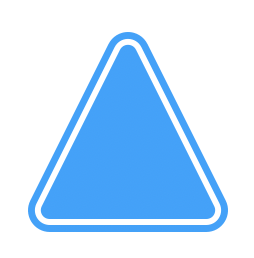
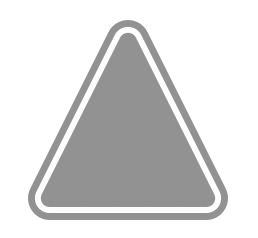
add placeholder

diff --git a/src/components/HelpDrawer/HelpContent/SpectralProfilerSettingsHelpComponent.tsx b/src/components/HelpDrawer/HelpContent/SpectralProfilerSettingsHelpComponent.tsx
@@ -1,11 +1,12 @@
 import * as React from "react";
+import * as underConstruction from "static/help/under_construction.png";
 
 export class SpectralProfilerSettingsHelpComponent extends React.Component {
     public render() {
         return (
             <React.Fragment>
-                <h1>This is title</h1>
-                <p>This is help.</p>
+                <p>To be added.</p>
+                <img src={underConstruction} style={{width: "20%", height: "auto"}}/>
             </React.Fragment>
         );
     }

diff --git a/src/components/HelpDrawer/HelpContent/SpatialProfilerSettingsHelpComponent.tsx b/src/components/HelpDrawer/HelpContent/SpatialProfilerSettingsHelpComponent.tsx
@@ -1,11 +1,12 @@
 import * as React from "react";
+import * as underConstruction from "static/help/under_construction.png";
 
 export class SpatialProfilerSettingsHelpComponent extends React.Component {
     public render() {
         return (
             <React.Fragment>
-                <h1>This is title</h1>
-                <p>This is help.</p>
+                <p>To be added.</p>
+                <img src={underConstruction} style={{width: "20%", height: "auto"}}/>
             </React.Fragment>
         );
     }

diff --git a/src/components/HelpDrawer/HelpContent/StokesAnalysisSettingsHelpComponent.tsx b/src/components/HelpDrawer/HelpContent/StokesAnalysisSettingsHelpComponent.tsx
@@ -1,11 +1,12 @@
 import * as React from "react";
+import * as underConstruction from "static/help/under_construction.png";
 
 export class StokesAnalysisSettingsHelpComponent extends React.Component {
     public render() {
         return (
             <React.Fragment>
-                <h1>This is title</h1>
-                <p>This is help.</p>
+                <p>To be added.</p>
+                <img src={underConstruction} style={{width: "20%", height: "auto"}}/>
             </React.Fragment>
         );
     }

diff --git a/src/components/HelpDrawer/HelpContent/RenderConfigSettingsHelpComponent.tsx b/src/components/HelpDrawer/HelpContent/RenderConfigSettingsHelpComponent.tsx
@@ -1,11 +1,12 @@
 import * as React from "react";
+import * as underConstruction from "static/help/under_construction.png";
 
 export class RenderConfigSettingsHelpComponent extends React.Component {
     public render() {
         return (
             <React.Fragment>
-                <h1>This is title</h1>
-                <p>This is help.</p>
+                <p>To be added.</p>
+                <img src={underConstruction} style={{width: "20%", height: "auto"}}/>
             </React.Fragment>
         );
     }

diff --git a/src/components/HelpDrawer/HelpContent/HistogramSettingsHelpComponent.tsx b/src/components/HelpDrawer/HelpContent/HistogramSettingsHelpComponent.tsx
@@ -1,11 +1,12 @@
 import * as React from "react";
+import * as underConstruction from "static/help/under_construction.png";
 
 export class HistogramSettingsHelpComponent extends React.Component {
     public render() {
         return (
             <React.Fragment>
-                <h1>This is title</h1>
-                <p>This is help.</p>
+                <p>To be added.</p>
+                <img src={underConstruction} style={{width: "20%", height: "auto"}}/>
             </React.Fragment>
         );
     }

diff --git a/src/components/HelpDrawer/HelpContent/SpectralProfilerHelpComponent.tsx b/src/components/HelpDrawer/HelpContent/SpectralProfilerHelpComponent.tsx
@@ -1,11 +1,12 @@
 import * as React from "react";
+import * as underConstruction from "static/help/under_construction.png";
 
 export class SpectralProfilerHelpComponent extends React.Component {
     public render() {
         return (
             <React.Fragment>
-                <h1>This is title</h1>
-                <p>This is help.</p>
+                <p>To be added.</p>
+                <img src={underConstruction} style={{width: "20%", height: "auto"}}/>
             </React.Fragment>
         );
     }

diff --git a/src/components/HelpDrawer/HelpContent/OverlaySettingsHelpComponent.tsx b/src/components/HelpDrawer/HelpContent/OverlaySettingsHelpComponent.tsx
@@ -1,11 +1,12 @@
 import * as React from "react";
+import * as underConstruction from "static/help/under_construction.png";
 
 export class OverlaySettingsHelpComponent extends React.Component {
     public render() {
         return (
             <React.Fragment>
-                <h1>This is title</h1>
-                <p>This is help.</p>
+                <p>To be added.</p>
+                <img src={underConstruction} style={{width: "20%", height: "auto"}}/>
             </React.Fragment>
         );
     }

diff --git a/src/components/HelpDrawer/HelpContent/SpatialProfilerHelpComponent.tsx b/src/components/HelpDrawer/HelpContent/SpatialProfilerHelpComponent.tsx
@@ -1,11 +1,12 @@
 import * as React from "react";
+import * as underConstruction from "static/help/under_construction.png";
 
 export class SpatialProfilerHelpComponent extends React.Component {
     public render() {
         return (
             <React.Fragment>
-                <h1>This is title</h1>
-                <p>This is help.</p>
+                <p>To be added.</p>
+                <img src={underConstruction} style={{width: "20%", height: "auto"}}/>
             </React.Fragment>
         );
     }

diff --git a/src/components/HelpDrawer/HelpContent/StokesAnalysisHelpComponent.tsx b/src/components/HelpDrawer/HelpContent/StokesAnalysisHelpComponent.tsx
@@ -1,11 +1,12 @@
 import * as React from "react";
+import * as underConstruction from "static/help/under_construction.png";
 
 export class StokesAnalysisHelpComponent extends React.Component {
     public render() {
         return (
             <React.Fragment>
-                <h1>This is title</h1>
-                <p>This is help.</p>
+                <p>To be added.</p>
+                <img src={underConstruction} style={{width: "20%", height: "auto"}}/>
             </React.Fragment>
         );
     }

diff --git a/src/components/HelpDrawer/HelpContent/RegionDialogHelpComponent.tsx b/src/components/HelpDrawer/HelpContent/RegionDialogHelpComponent.tsx
@@ -1,11 +1,12 @@
 import * as React from "react";
+import * as underConstruction from "static/help/under_construction.png";
 
 export class RegionDialogHelpComponent extends React.Component {
     public render() {
         return (
             <React.Fragment>
-                <h1>This is title</h1>
-                <p>This is help.</p>
+                <p>To be added.</p>
+                <img src={underConstruction} style={{width: "20%", height: "auto"}}/>
             </React.Fragment>
         );
     }

diff --git a/src/components/HelpDrawer/HelpContent/RenderConfigHelpComponent.tsx b/src/components/HelpDrawer/HelpContent/RenderConfigHelpComponent.tsx
@@ -1,11 +1,12 @@
 import * as React from "react";
+import * as underConstruction from "static/help/under_construction.png";
 
 export class RenderConfigHelpComponent extends React.Component {
     public render() {
         return (
             <React.Fragment>
-                <h1>This is title</h1>
-                <p>This is help.</p>
+                <p>To be added.</p>
+                <img src={underConstruction} style={{width: "20%", height: "auto"}}/>
             </React.Fragment>
         );
     }

diff --git a/src/components/HelpDrawer/HelpContent/PlaceholderHelpComponent.tsx b/src/components/HelpDrawer/HelpContent/PlaceholderHelpComponent.tsx
@@ -1,11 +1,12 @@
 import * as React from "react";
+import * as underConstruction from "static/help/under_construction.png";
 
 export class PlaceholderHelpComponent extends React.Component {
     public render() {
         return (
             <React.Fragment>
-                <h1>This is title</h1>
-                <p>This is help.</p>
+                <p>To be added.</p>
+                <img src={underConstruction} style={{width: "20%", height: "auto"}}/>
             </React.Fragment>
         );
     }
